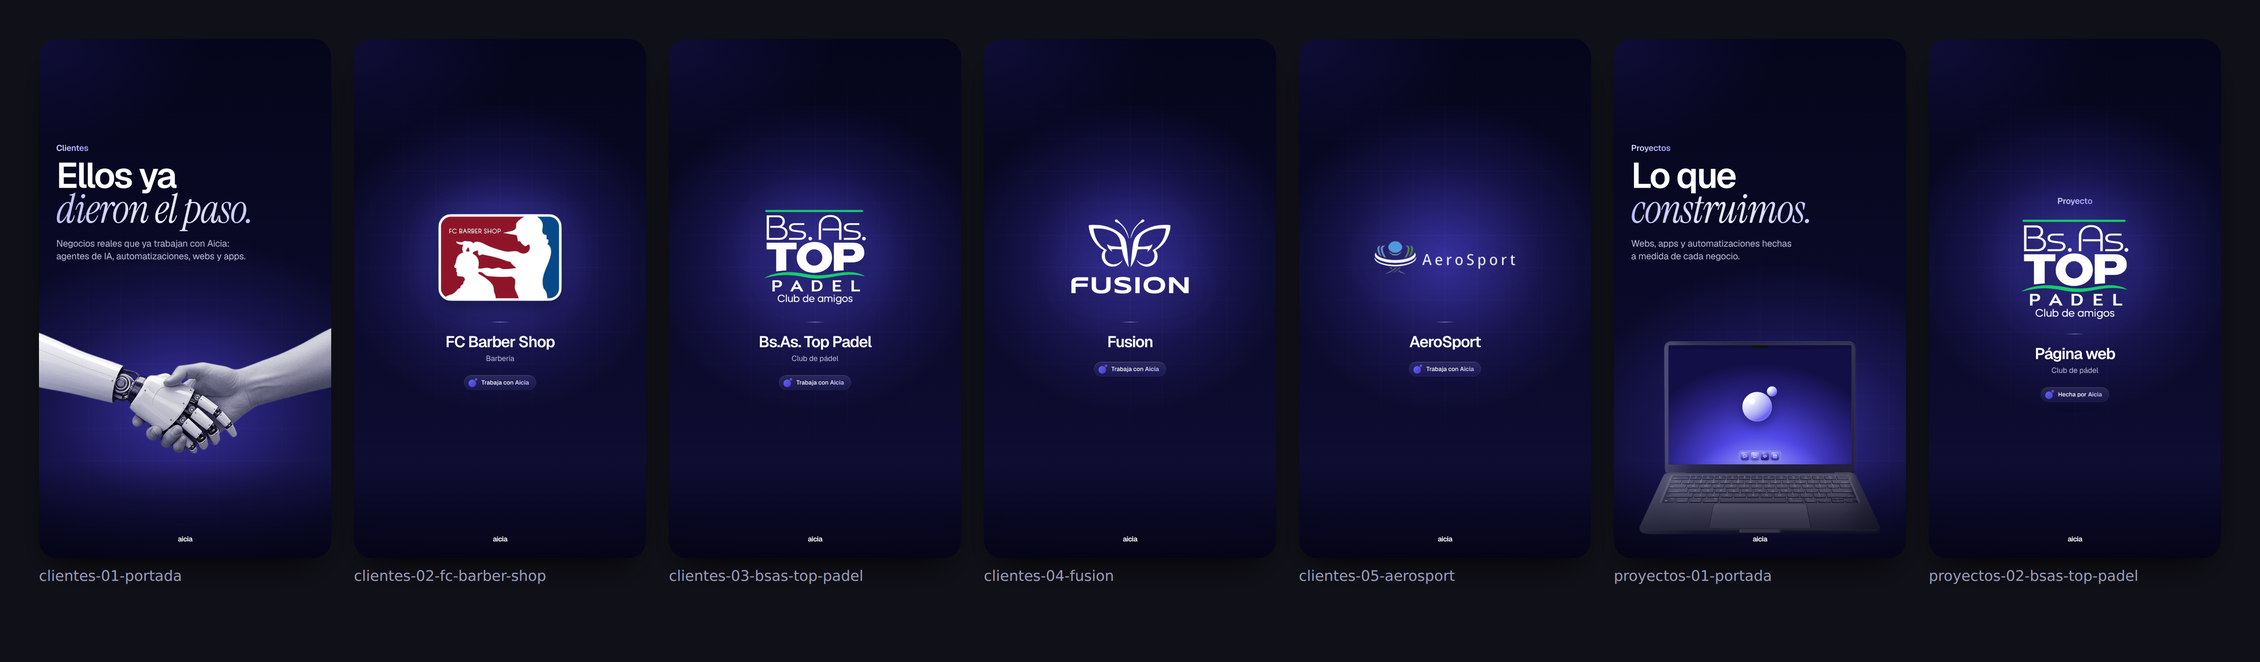
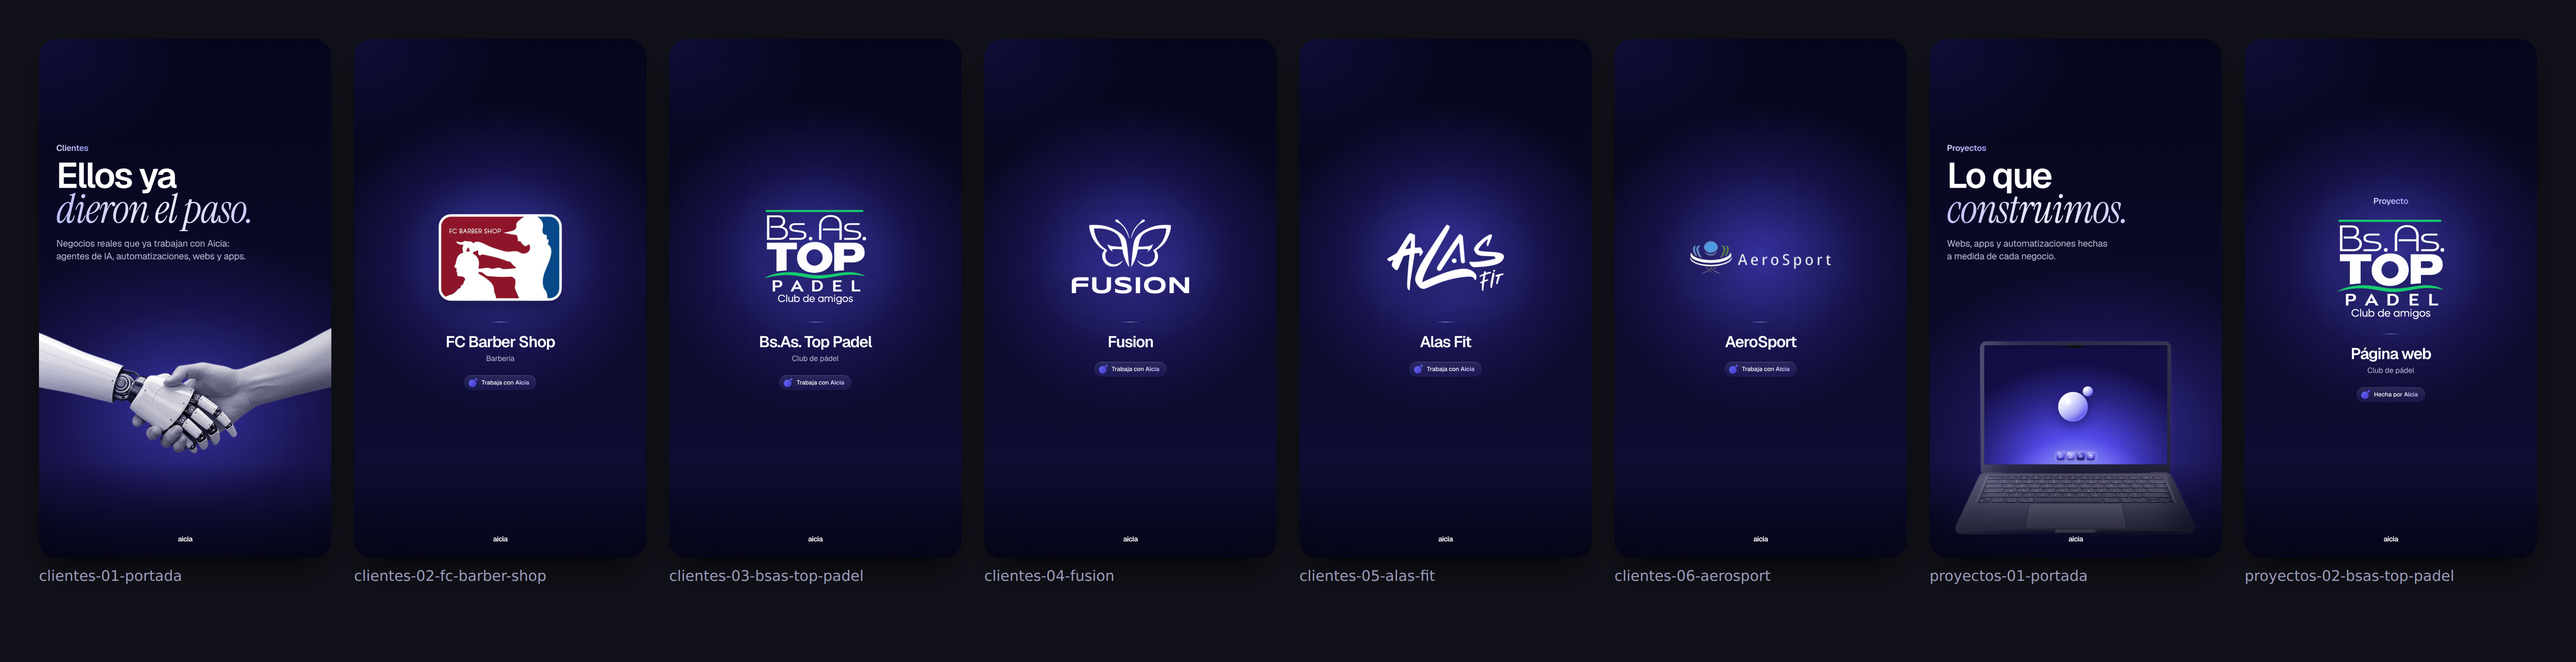
Clientes: tarjeta de Alas Fit
Logo en alta calidad pasado a blanco puro. AeroSport pasa a ser la
06 para mantener el orden (Fusion, Alas Fit, AeroSport).

Claude-Session: https://claude.ai/code/session_01SBSshHAET78NiDLxszLW9R

diff --git a/historias/clientes-proyectos/historias.html b/historias/clientes-proyectos/historias.html
@@ -354,8 +354,21 @@ svg.app .gl .f{fill:#fff;stroke:none}
   <div class="basefade"></div><div class="sig">aicia</div>
 </section>
 
+<!-- ======================= CLIENTES · ALAS FIT ======================= -->
+<section class="story card" data-file="aicia-clientes-05-alas-fit.png">
+  <div class="stage"></div><div class="grid"></div>
+  <img class="logo" src="assets/logo-alas-fit-blanco.png" alt="Alas Fit" style="top:683px;width:440px">
+  <div class="rule" style="top:1046px"></div>
+  <div class="center tx" style="top:1092px">
+    <div class="name">Alas Fit</div>
+    <div class="pill glass"><svg class="lg-i" aria-label="Aicia"><use href="#logo"/></svg><span>Trabaja con <b>Aicia</b></span></div>
+  </div>
+  <div class="vignette"></div><div class="grain"></div>
+  <div class="basefade"></div><div class="sig">aicia</div>
+</section>
+
 <!-- ======================= CLIENTES · AEROSPORT ======================= -->
-<section class="story card" data-file="aicia-clientes-05-aerosport.png">
+<section class="story card" data-file="aicia-clientes-06-aerosport.png">
   <div class="stage"></div><div class="grid"></div>
   <img class="logo" src="assets/logo-aerosport.png" alt="AeroSport" style="top:738px;width:540px">
   <div class="rule" style="top:1046px"></div>
